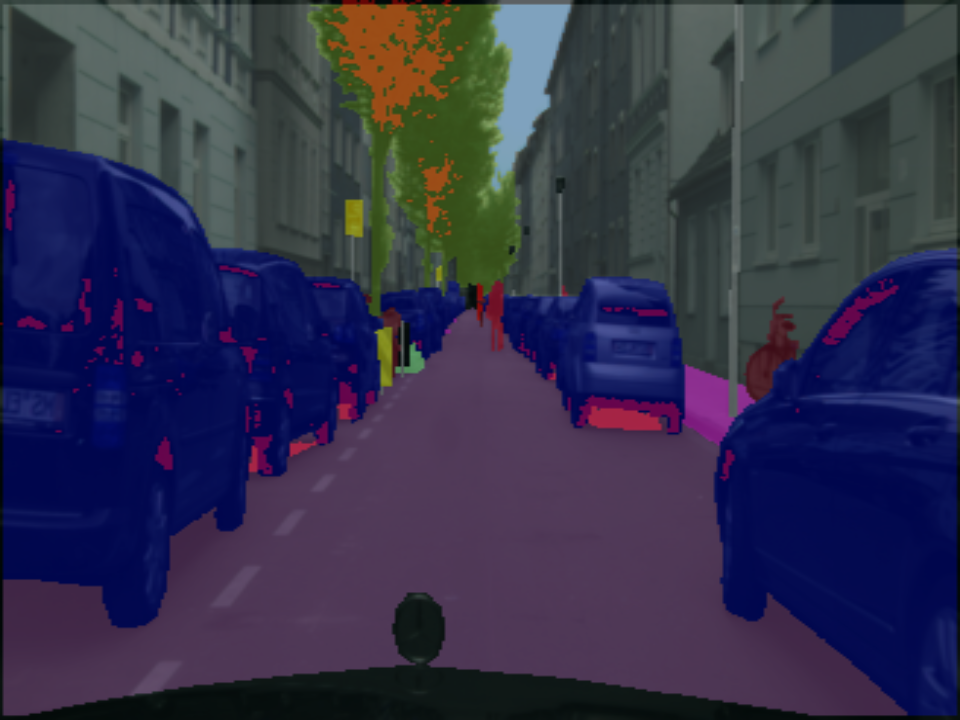
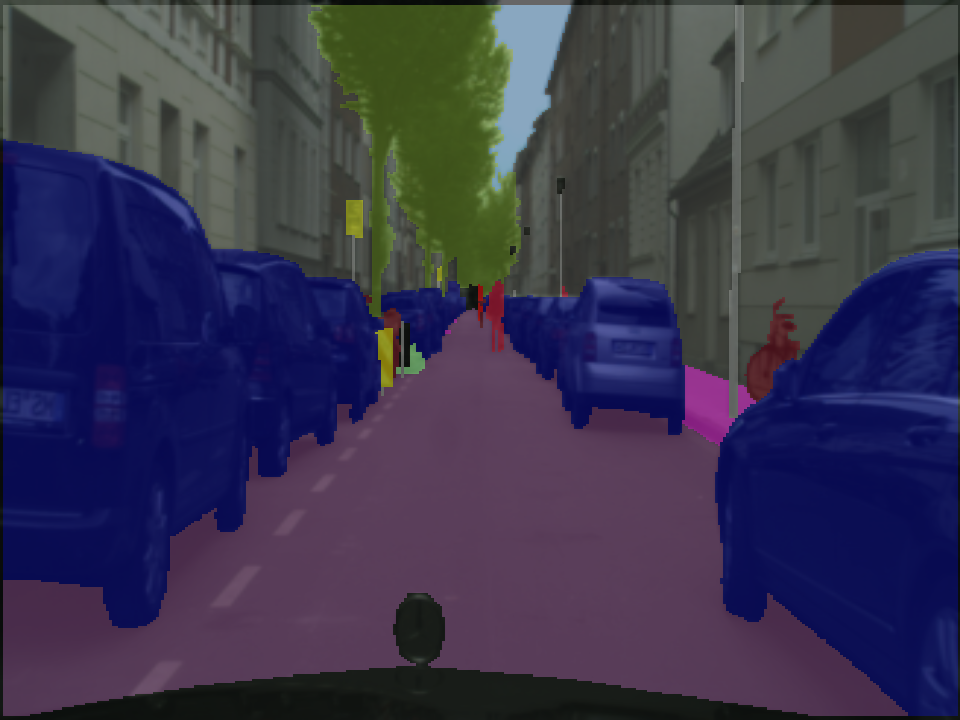
fixed image + label printing

diff --git a/dataset/cityscapes_dataset.py b/dataset/cityscapes_dataset.py
@@ -26,9 +26,10 @@ def print_image_and_label(dataloader):
     image = np.asarray(image, np.float32)
     # process image
     image = np.transpose(image.squeeze(), (1, 2, 0))
-    image = IMG_MEAN + image.squeeze()
+    image = (128, 128, 128) + image.squeeze()
     image = image[:, :, ::-1]
     image = cv2.resize(np.uint8(image), (960, 720))
+    image = cv2.cvtColor(image, cv2.COLOR_RGB2BGR)
 
     # process label
     label = colour_code_segmentation(np.array(label.squeeze()), label_info)
@@ -113,11 +114,9 @@ class cityscapesDataSet(data.Dataset):
         label = label.resize(self.crop_size, Image.NEAREST)
 
         image = np.asarray(image, np.float32)
-        label = np.asarray(label)
+        label = np.asarray(label, np.float32)
 
         label = self.encode_labels(label)
-
-        complete_labels = label
 
         """if self.pseudo_labels_path is None:
             complete_labels = []
@@ -136,7 +135,7 @@ class cityscapesDataSet(data.Dataset):
         image -= self.mean
         image = image.transpose((2, 0, 1))
 
-        return image.copy(), complete_labels.copy(), name
+        return image.copy(), label.copy(), name
 
 
 if __name__ == '__main__':
